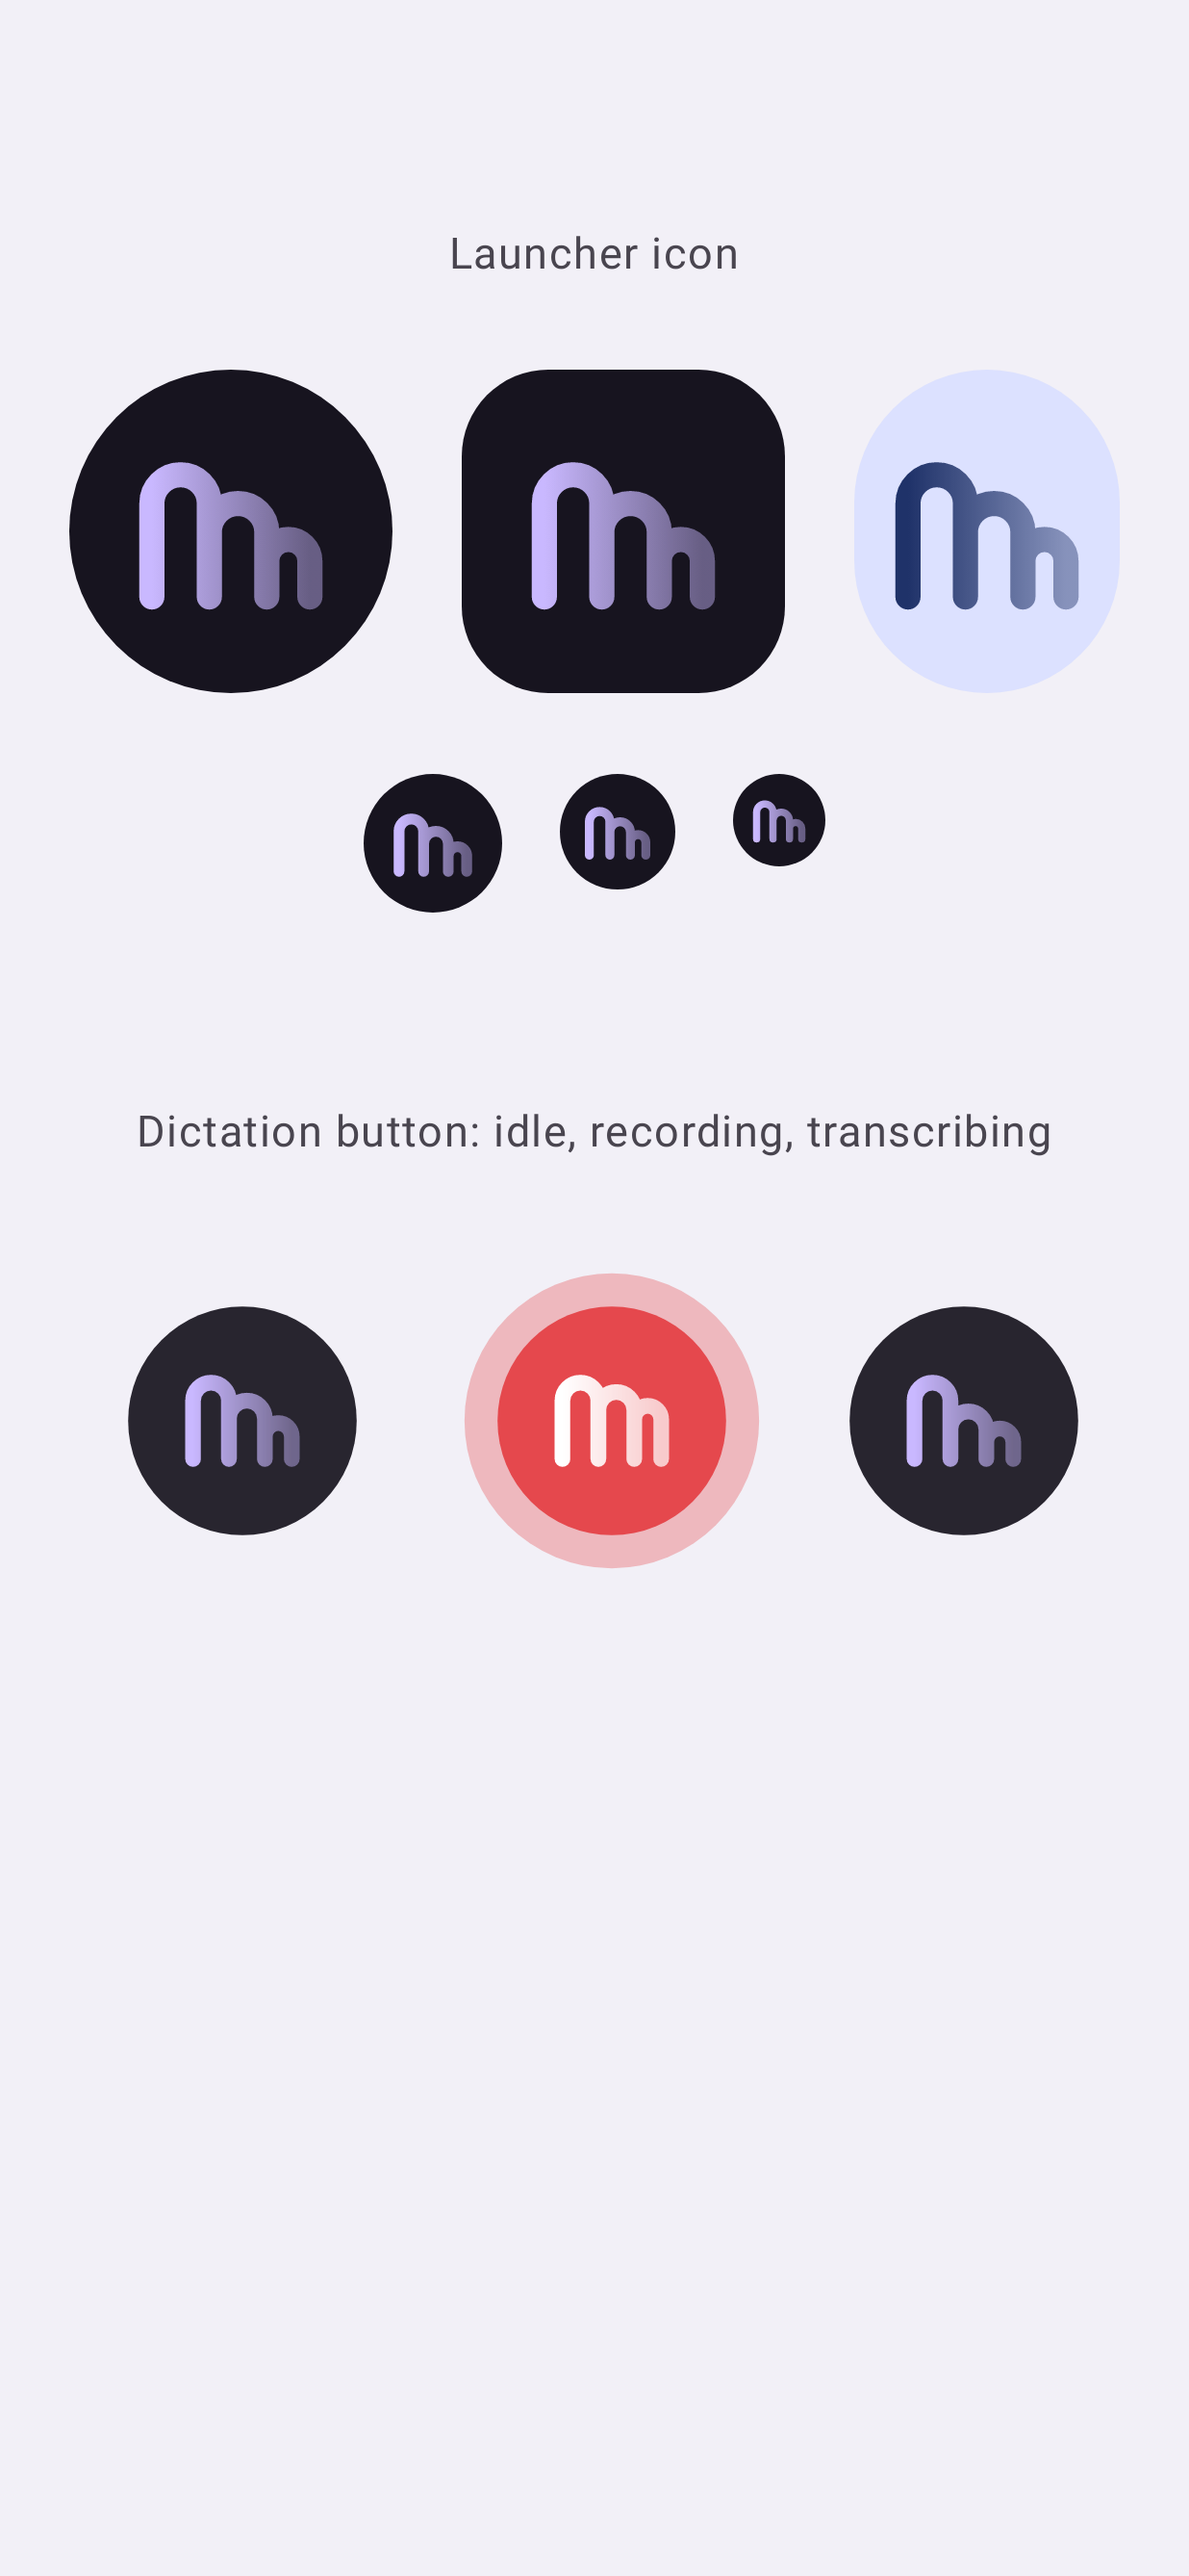
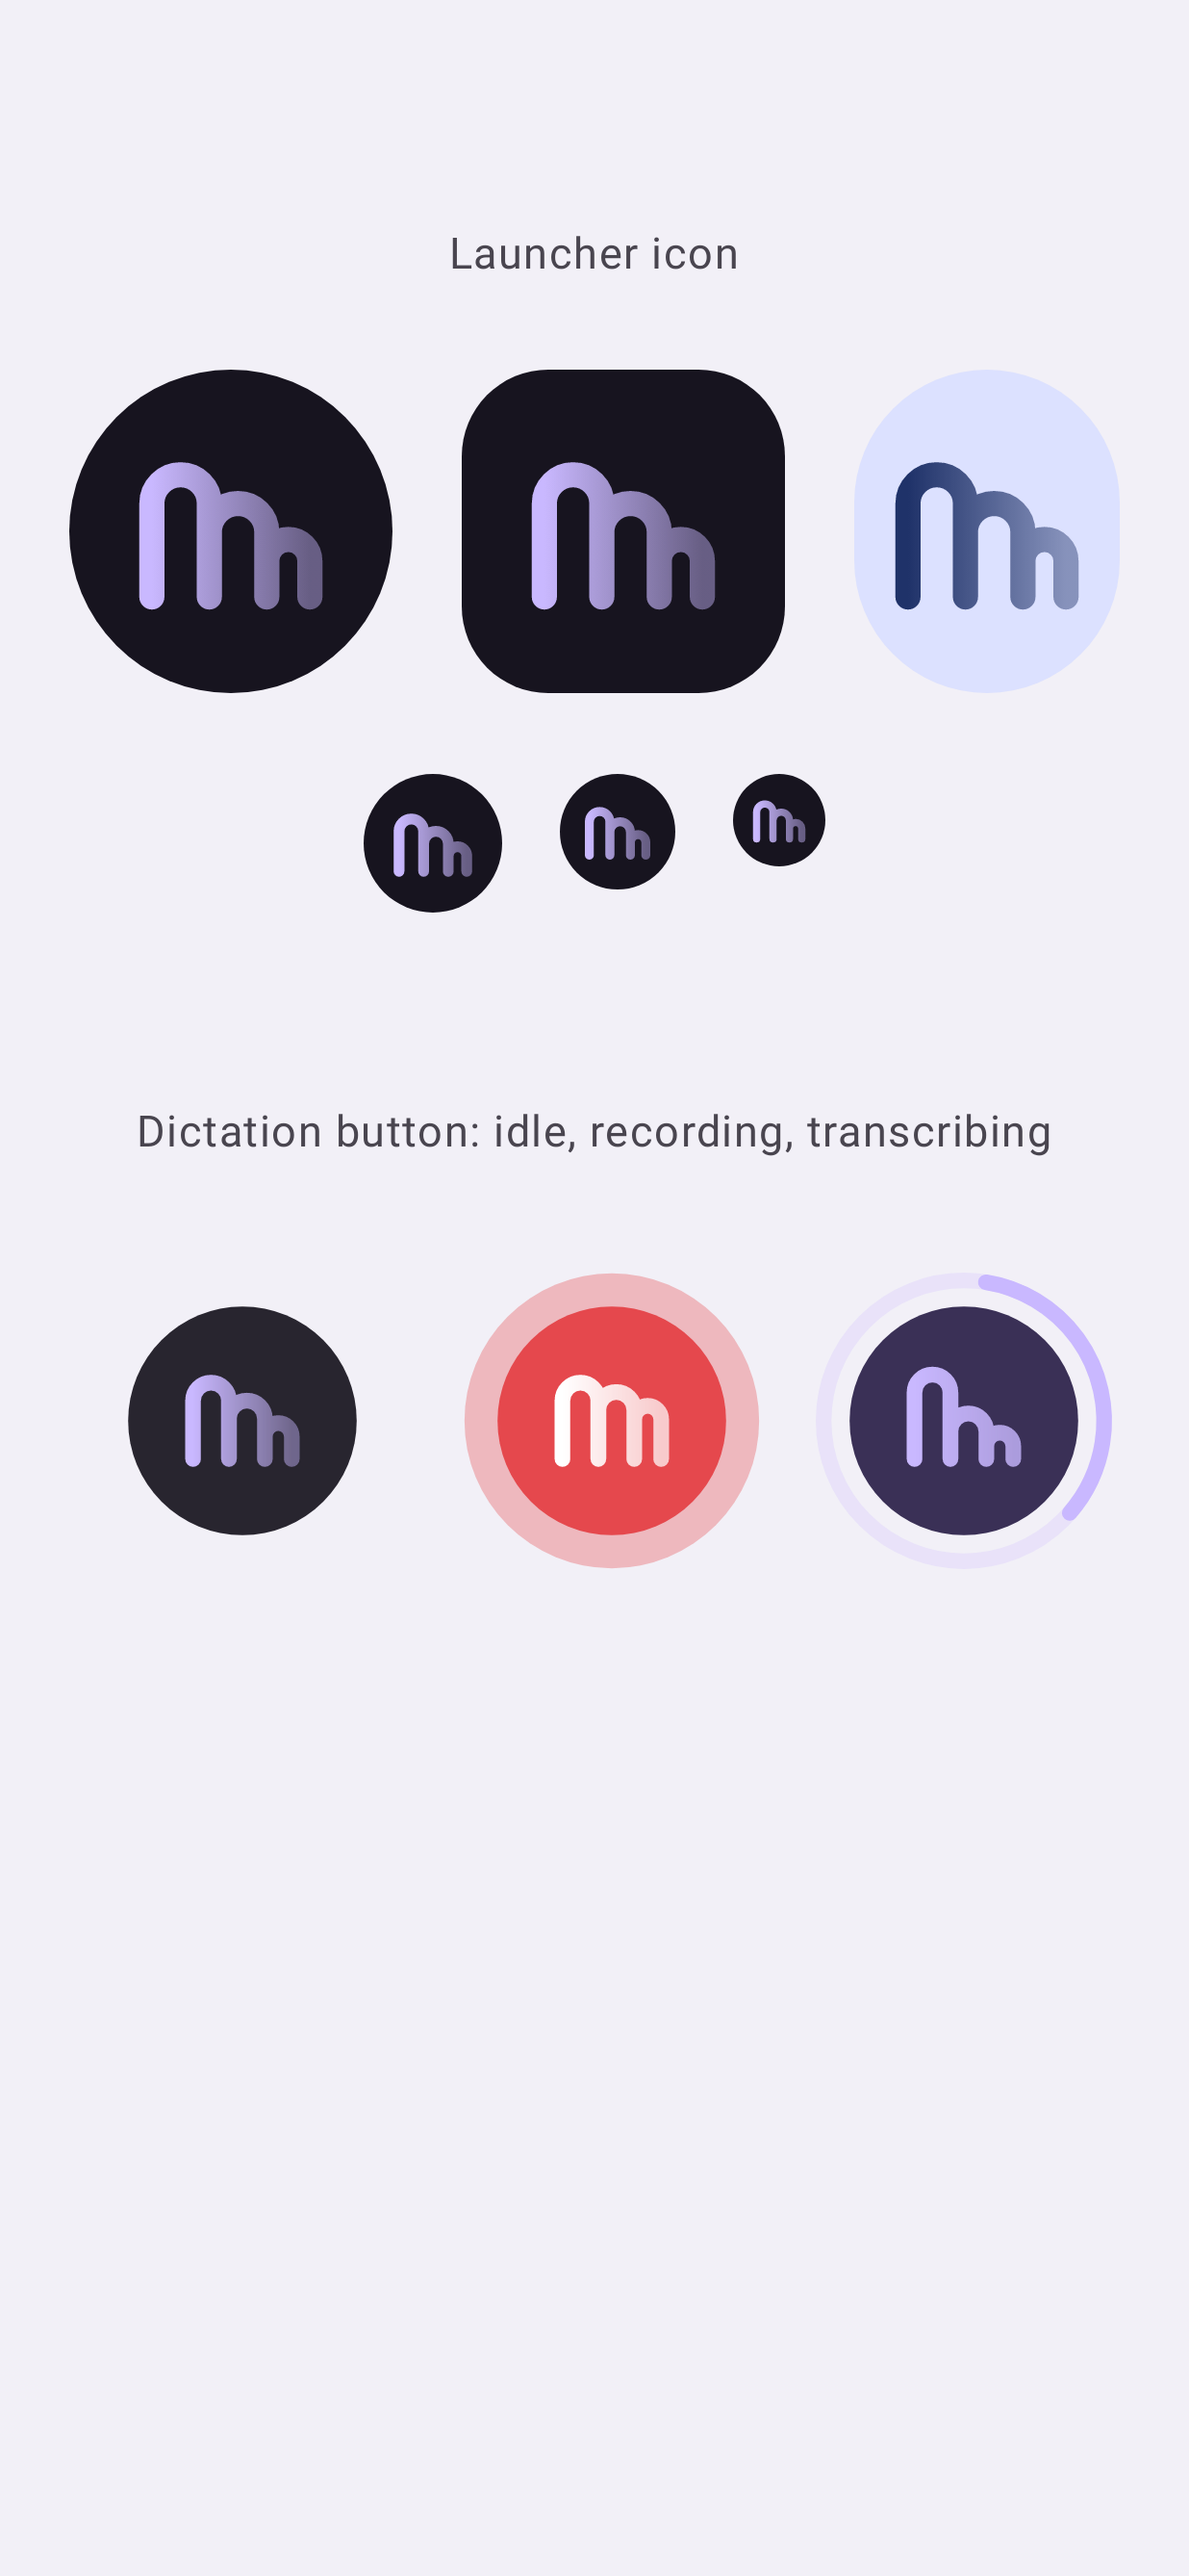
Make transcribing visibly different and confirm when it finishes
On a phone the transcribing state looked like idle: same dark button,
only a small ripple in the arches. That ripple ran on a ValueAnimator,
so it froze completely when the animation scale is 0 (Remove
animations, battery saver).

Transcribing now tints the button purple, circles it with a lavender
ring and moves the arches further, all driven by the frame clock so it
animates regardless of the animation scale. When it finishes there is
a confirm haptic, and a reject haptic plus a message when nothing was
recognised or transcription failed, instead of silence.

Changed region(s): [[0.7071, 0.4963, 0.9531, 0.6203]]

diff --git a/app/src/main/java/com/restartfu/murmur/overlay/MicButtonView.kt b/app/src/main/java/com/restartfu/murmur/overlay/MicButtonView.kt
@@ -1,6 +1,5 @@
 package com.restartfu.murmur.overlay
 
-import android.animation.ValueAnimator
 import android.annotation.SuppressLint
 import android.content.Context
 import android.graphics.Canvas
@@ -10,7 +9,7 @@ import android.graphics.Path
 import android.graphics.RectF
 import android.graphics.Shader
 import android.view.View
-import android.view.animation.LinearInterpolator
+import android.os.SystemClock
 import androidx.core.graphics.withSave
 import kotlin.math.PI
 import kotlin.math.min
@@ -22,9 +21,12 @@ import kotlin.math.sin
  *
  * - idle: the mark at rest, lavender on dark;
  * - recording: red, and the quieter arches rise and brighten as you speak;
- * - transcribing: a ripple runs through the arches.
+ * - transcribing: a lavender ring circles the button and a wave runs through the arches.
  *
- * Drawn by hand so the overlay needs no theme or inflation.
+ * Drawn by hand so the overlay needs no theme or inflation. The transcribing animation is
+ * driven by the frame clock rather than an Animator. Animators freeze when the system's
+ * animation scale is 0 ("Remove animations", battery saver), and this one is the only sign
+ * that Murmur is working.
  */
 @SuppressLint("ViewConstructor")
 class MicButtonView(context: Context) : View(context) {
@@ -46,6 +48,11 @@ class MicButtonView(context: Context) : View(context) {
         strokeCap = Paint.Cap.ROUND
         strokeJoin = Paint.Join.ROUND
     }
+    private val ring = Paint(Paint.ANTI_ALIAS_FLAG).apply {
+        style = Paint.Style.STROKE
+        strokeWidth = dp(3f)
+        strokeCap = Paint.Cap.ROUND
+    }
     private val path = Path()
     private val oval = RectF()
     private val heights = FloatArray(MurmurMark.arches.size)
@@ -55,7 +62,7 @@ class MicButtonView(context: Context) : View(context) {
             if (field == value) return
             field = value
             level = 0f
-            if (value == State.TRANSCRIBING) ripple.start() else ripple.cancel()
+            if (value == State.TRANSCRIBING) transcribingSince = SystemClock.uptimeMillis()
             contentDescription = when (value) {
                 State.IDLE -> "Start dictation"
                 State.RECORDING -> "Stop dictation"
@@ -65,13 +72,7 @@ class MicButtonView(context: Context) : View(context) {
         }
 
     private var level = 0f
-    private var phase = 0f
-    private val ripple = ValueAnimator.ofFloat(0f, (2 * PI).toFloat()).apply {
-        duration = 1100
-        repeatCount = ValueAnimator.INFINITE
-        interpolator = LinearInterpolator()
-        addUpdateListener { phase = it.animatedValue as Float; invalidate() }
-    }
+    private var transcribingSince = 0L
 
     init {
         contentDescription = "Start dictation"
@@ -97,19 +98,43 @@ class MicButtonView(context: Context) : View(context) {
             canvas.drawCircle(cx, cy, buttonRadius + dp(3f) + level * (haloMax - dp(3f)), halo)
         }
 
-        fill.color = if (state == State.RECORDING) 0xFFE5484D.toInt() else 0xF01C1924.toInt()
+        fill.color = when (state) {
+            State.IDLE -> 0xF01C1924.toInt()
+            State.RECORDING -> 0xFFE5484D.toInt()
+            State.TRANSCRIBING -> 0xF8352B52.toInt()
+        }
         canvas.drawCircle(cx, cy, buttonRadius, fill)
+
+        // 0..1 through one ring revolution.
+        val t = if (state == State.TRANSCRIBING) {
+            ((SystemClock.uptimeMillis() - transcribingSince) % RING_PERIOD_MS) / RING_PERIOD_MS.toFloat()
+        } else 0f
+        val phase = (t * 2 * PI).toFloat()
+        if (state == State.TRANSCRIBING) {
+            val r = buttonRadius + dp(5f)
+            oval.set(cx - r, cy - r, cx + r, cy + r)
+            ring.color = 0x40C9B8FF
+            canvas.drawCircle(cx, cy, r, ring)
+            ring.color = MurmurMark.COLOR
+            // The arc breathes between short and long while it circles.
+            val sweep = 70f + 90f * (0.5f + 0.5f * sin(phase))
+            canvas.drawArc(oval, t * 360f - 90f, sweep, false, ring)
+        }
 
         val tallest = MurmurMark.arches[0].height
         MurmurMark.arches.forEachIndexed { i, arch ->
             heights[i] = when (state) {
                 State.IDLE -> arch.height
                 State.RECORDING -> arch.height + (tallest - arch.height) * level
-                State.TRANSCRIBING -> arch.height * (1f + 0.3f * sin(phase - i * 1.1f))
+                State.TRANSCRIBING -> arch.height * (1f + 0.45f * sin(2 * phase - i * 1.1f))
             }
         }
         val color = if (state == State.RECORDING) 0xFFFFFFFF.toInt() else MurmurMark.COLOR
-        val fade = if (state == State.RECORDING) MurmurMark.FADE + (1f - MurmurMark.FADE) * level else MurmurMark.FADE
+        val fade = when (state) {
+            State.IDLE -> MurmurMark.FADE
+            State.RECORDING -> MurmurMark.FADE + (1f - MurmurMark.FADE) * level
+            State.TRANSCRIBING -> 0.8f
+        }
         mark.shader = MurmurMark.gradient(color, fade)
 
         val scale = dp(19f) / MurmurMark.WIDTH
@@ -120,11 +145,12 @@ class MicButtonView(context: Context) : View(context) {
             MurmurMark.buildPath(path, oval, heights)
             drawPath(path, mark)
         }
+
+        if (state == State.TRANSCRIBING) postInvalidateOnAnimation()
     }
 
-    override fun onDetachedFromWindow() {
-        ripple.cancel()
-        super.onDetachedFromWindow()
+    private companion object {
+        const val RING_PERIOD_MS = 1200L
     }
 }
 

diff --git a/app/src/main/java/com/restartfu/murmur/service/MurmurAccessibilityService.kt b/app/src/main/java/com/restartfu/murmur/service/MurmurAccessibilityService.kt
@@ -10,6 +10,7 @@ import android.graphics.Rect
 import android.os.Handler
 import android.os.Looper
 import android.provider.Settings
+import android.view.HapticFeedbackConstants
 import android.view.accessibility.AccessibilityEvent
 import android.view.accessibility.AccessibilityNodeInfo
 import android.view.accessibility.AccessibilityWindowInfo
@@ -139,7 +140,11 @@ class MurmurAccessibilityService : AccessibilityService() {
         scope.launch {
             try {
                 val text = Transcriber.transcribe(applicationContext, recording.samples)
-                if (text.isNotBlank()) {
+                if (text.isBlank()) {
+                    haptic(HapticFeedbackConstants.REJECT)
+                    toast("Didn't catch that. Try again a little closer to the mic.")
+                } else {
+                    haptic(HapticFeedbackConstants.CONFIRM)
                     when (TextInserter.insert(this@MurmurAccessibilityService, text)) {
                         TextInserter.Result.INSERTED, TextInserter.Result.PASTED -> Unit
                         TextInserter.Result.COPIED_ONLY -> toast("Copied to clipboard. This field doesn't accept text from Murmur.")
@@ -148,6 +153,7 @@ class MurmurAccessibilityService : AccessibilityService() {
             } catch (e: CancellationException) {
                 throw e
             } catch (e: Exception) {
+                haptic(HapticFeedbackConstants.REJECT)
                 toast("Transcription failed: ${e.message}")
             } finally {
                 setState(State.IDLE)
@@ -186,6 +192,10 @@ class MurmurAccessibilityService : AccessibilityService() {
 
     private fun openApp() {
         startActivity(Intent(this, MainActivity::class.java).addFlags(Intent.FLAG_ACTIVITY_NEW_TASK))
+    }
+
+    private fun haptic(feedback: Int) {
+        overlay.button.performHapticFeedback(feedback)
     }
 
     private fun toast(message: String) = Toast.makeText(this, message, Toast.LENGTH_LONG).show()
